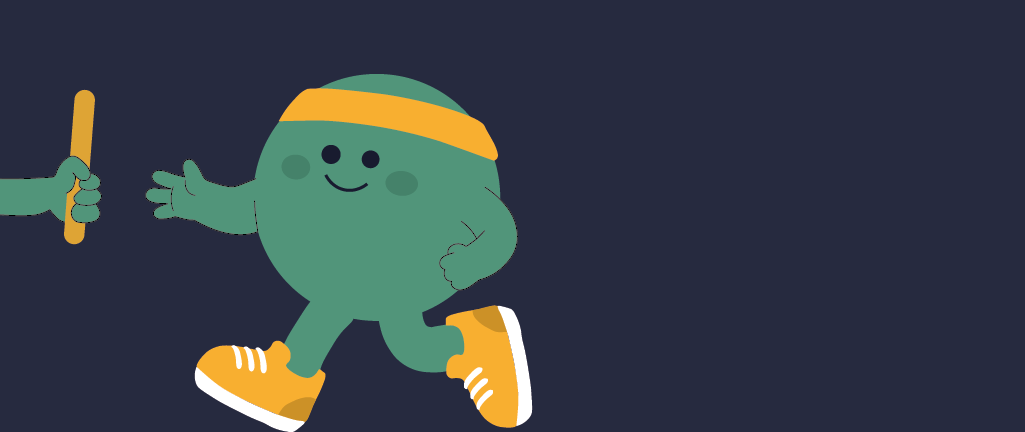
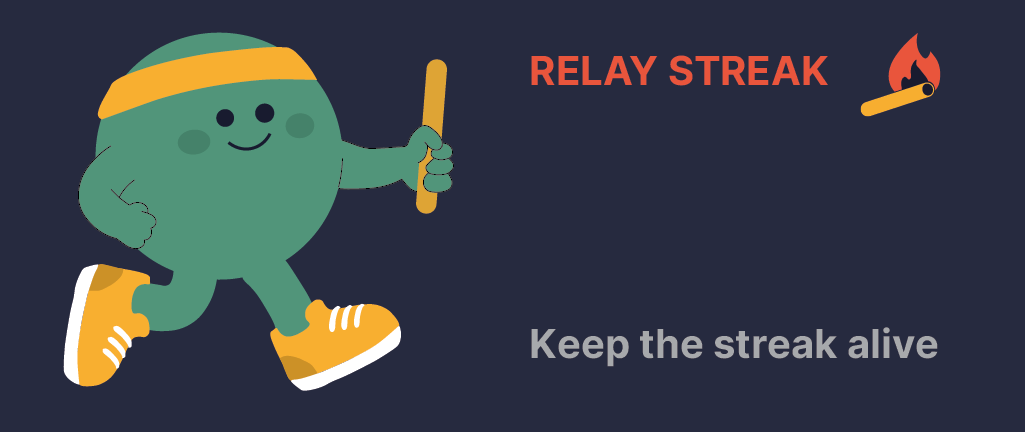
feat: "no crew screen" added + implement empty states, silent refresh, and fix navigation

Changed region(s): [[0.0, 0.0602, 0.9366, 1.0], [0.4995, 0.1204, 0.8117, 0.2106], [0.8429, 0.0903, 0.9366, 0.2708]]

diff --git a/src/screens/dashboard/CrewScreen.js b/src/screens/dashboard/CrewScreen.js
@@ -1,7 +1,7 @@
 // src/screens/main/CrewScreen.js
 import React, { useState, useEffect } from "react";
-// 🚀 FIX: ImageBackground toegevoegd aan de imports!
 import { StyleSheet, Text, View, ScrollView, TouchableOpacity, ActivityIndicator, Image, Modal, ImageBackground } from "react-native";
+import { SafeAreaView } from 'react-native-safe-area-context'; // Gelinkt aan je vorige fix!
 import { Ionicons } from "@expo/vector-icons";
 import { COLORS } from "../../theme/colors";
 import * as WebBrowser from "expo-web-browser";
@@ -31,16 +31,24 @@ export default function CrewScreen({ navigation }) {
   const [isMoreLoading, setIsMoreLoading] = useState(false); 
 
   // Streak Engine states
-  const [scheduleLoading, setScheduleLoading] = useState(true);
+  // 🚀 FIX: Standaard op false gezet zodat hij nooit uit het niets de UI blokkeert
+  const [scheduleLoading, setScheduleLoading] = useState(false);
   const [weekAssignments, setWeekAssignments] = useState([]);
   const [todayAssignment, setTodayAssignment] = useState(null);
   const [batonHolderNames, setBatonHolderNames] = useState("");
   const [timeRemaining, setTimeRemaining] = useState("");
   const [isWeekModalVisible, setWeekModalVisible] = useState(false);
+  const [isFirstLoad, setIsFirstLoad] = useState(true);
   
   // Crew Profiles voor avatars
   const [crewProfilesMap, setCrewProfilesMap] = useState({});
   const [crewMembersList, setCrewMembersList] = useState([]);
+
+    useEffect(() => {
+    if (!userLoading) {
+      setIsFirstLoad(false);
+    }
+  }, [userLoading]);
 
   // --- 2. DE COUNTDOWN TIMER ---
   useEffect(() => {
@@ -109,7 +117,10 @@ export default function CrewScreen({ navigation }) {
       return;
     }
     try {
-      setScheduleLoading(true);
+      // 🚀 FIX: Alleen laadstatus aanzetten als we nóg helemaal geen data hebben (eerste opstart)
+      if (weekAssignments.length === 0) {
+        setScheduleLoading(true);
+      }
 
       await processNachtCheck(crewData.id);
       await ensureFourteenDaySchedule(crewData.id);
@@ -292,11 +303,35 @@ export default function CrewScreen({ navigation }) {
 
   // --- 5. UI RENDER ---
 
-  if ((userLoading && !crewData) || (scheduleLoading && weekAssignments.length === 0)) {
+  // A. Toon het laadscherm UITSLUITEND bij de allereerste opstart.
+  if (isFirstLoad) {
     return (
       <View style={styles.loadingContainer}>
         <ActivityIndicator size="large" color={COLORS.primaryOrange} />
       </View>
+    );
+  }
+
+  // B. EMPTY STATE ALS DE USER GEEN CREW HEEFT
+  if (!crewData || !crewData.id) {
+    return (
+      <SafeAreaView style={styles.emptyCrewContainer}>
+        <View style={styles.emptyCrewContent}>
+          <Ionicons name="people-circle-outline" size={100} color={COLORS.textMuted} />
+          <Text style={styles.emptyCrewTitle}>You're flying solo!</Text>
+          <Text style={styles.emptyCrewText}>
+            Running is better together. Join an existing crew or start your own to unlock the relay streak and epic quests.
+          </Text>
+
+          <TouchableOpacity 
+            style={styles.primaryButton} 
+            activeOpacity={0.8} 
+            onPress={() => navigation.getParent()?.navigate("AccountSetup") || navigation.navigate("AccountSetup")}
+          >
+            <Text style={styles.primaryButtonText}>Join or Create a Crew</Text>
+          </TouchableOpacity>
+        </View>
+      </SafeAreaView>
     );
   }
 
@@ -330,16 +365,13 @@ export default function CrewScreen({ navigation }) {
         <Text style={styles.sectionTitle}>Relay Streak</Text>
       </View>
       
-      {/* Check goed of dit pad klopt in jouw mappenstructuur! */}
       <ImageBackground 
         source={require('../../assets/images/streak-banner.png')} 
         style={styles.illustratorBannerPlaceholder}
         imageStyle={{ borderRadius: 16 }}
       >
-        {/* Linkerkant (leeglaten zodat de illustratie van de mascotte hier zichtbaar is) */}
         <View style={{ flex: 1 }} /> 
 
-        {/* Rechterkant (Groot het getal en 'Days') */}
         <View style={styles.bannerTextContainer}>
           <Text style={styles.bannerStreakNumber}>{crewData?.current_streak || 0}</Text>
           <Text style={styles.bannerStreakLabel}>
@@ -560,29 +592,30 @@ const styles = StyleSheet.create({
     height: 140,
     overflow: 'hidden',
     flexDirection: 'row', 
-    borderColor: COLORS.secondaryYellow,
+    borderColor: "#3a3f58",
     borderWidth: 3,
   },
   bannerTextContainer: {
     flex: 1,
     alignItems: 'center',
-    
+    flexDirection: 'row',
+    marginLeft: 10,
   },
   bannerStreakNumber: { 
-    color: COLORS.primaryOrange, 
+    color: COLORS.textLight, 
     fontFamily: "Baloo-Bold", 
-    fontSize: 84,
+    fontSize: 65,
     lineHeight: 60,
     paddingTop: 40,
   },
   bannerStreakLabel: {
     color: "#FFF", 
     fontFamily: "Baloo-Bold", 
-    fontSize: 30, 
+    fontSize: 40, 
     fontWeight: "bold", 
     textTransform: 'uppercase', 
     letterSpacing: 2,
-    marginTop: -30,
+    marginTop: 17,
     marginLeft: 10,
   },
 
@@ -657,4 +690,12 @@ const styles = StyleSheet.create({
   weekIconCol: { width: 40, alignItems: "center" },
   weekNameCol: { flex: 1, paddingLeft: 10 },
   weekRunnerText: { color: COLORS.textLight, fontFamily: "Inter", fontSize: 16, fontWeight: "600" },
+  
+  // --- EMPTY STATE STYLES ---
+  emptyCrewContainer: { flex: 1, backgroundColor: COLORS.background },
+  emptyCrewContent: { flex: 1, justifyContent: 'center', alignItems: 'center', padding: 30 },
+  emptyCrewTitle: { color: COLORS.textLight, fontFamily: 'Baloo-Bold', fontSize: 32, marginTop: 20, marginBottom: 10, textAlign: 'center' },
+  emptyCrewText: { color: COLORS.textMuted, fontFamily: 'Inter', fontSize: 16, textAlign: 'center', lineHeight: 24, marginBottom: 40 },
+  primaryButton: { backgroundColor: COLORS.primaryOrange, paddingVertical: 16, paddingHorizontal: 30, borderRadius: 16, width: '100%', alignItems: 'center', shadowColor: COLORS.primaryOrange, shadowOffset: { width: 0, height: 4 }, shadowOpacity: 0.3, shadowRadius: 6, elevation: 5 },
+  primaryButtonText: { color: "#FFF", fontFamily: "Inter", fontWeight: "bold", fontSize: 18 },
 });

diff --git a/src/screens/dashboard/QuestsScreen.js b/src/screens/dashboard/QuestsScreen.js
@@ -7,8 +7,6 @@ import { COLORS } from '../../theme/colors';
 import { useUser } from '../../context/UserContext';
 import { supabase } from '../../lib/supabase';
 
-// 🚀 ROADMAP MET COVER AFBEELDINGEN (Unsplash placeholders)
-// 🚀 DE NIEUWE GEÜPDATETE ROADMAP MET LOKALE AFBEELDINGEN (Gemeten in Minuten)
 const MASTER_CHALLENGES = [
   { 
     id: "c1", 
@@ -146,7 +144,37 @@ export default function QuestsScreen({ navigation }) {
   const upcomingQuests = MASTER_CHALLENGES.filter(q => !activeAndCompletedTargets.includes(q.target_amount));
   const previewUpcoming = upcomingQuests.slice(0, 2);
 
-  if (contextLoading || loadingQuests) {
+  // A. Eerst checken of de usercontext nog laadt
+  if (contextLoading) {
+    return (
+      <View style={styles.loadingContainer}>
+        <ActivityIndicator size="large" color={COLORS.primaryOrange} />
+      </View>
+    );
+  }
+
+  // B. 🚀 NIEUW: EMPTY STATE ALS DE USER GEEN CREW HEEFT
+  if (!crewData || !crewData.id) {
+    return (
+      <SafeAreaView style={[styles.container, { justifyContent: 'center', alignItems: 'center', padding: 30 }]}>
+        <Ionicons name="map-outline" size={100} color={COLORS.textMuted} />
+        <Text style={{ color: COLORS.textLight, fontFamily: 'Baloo-Bold', fontSize: 32, marginTop: 20, marginBottom: 10, textAlign: 'center' }}>No Quests Yet</Text>
+        <Text style={{ color: COLORS.textMuted, fontFamily: 'Inter', fontSize: 16, textAlign: 'center', lineHeight: 24, marginBottom: 40 }}>
+          You need to be part of a crew to unlock epic running challenges like The Marathon or Route 66.
+        </Text>
+        <TouchableOpacity 
+          style={styles.viewAllButton} 
+          activeOpacity={0.8} 
+          onPress={() => navigation.getParent()?.navigate("AccountSetup") || navigation.navigate("AccountSetup")}
+        >
+          <Text style={[styles.viewAllText, { fontSize: 18 }]}>Join or Create a Crew</Text>
+        </TouchableOpacity>
+      </SafeAreaView>
+    );
+  }
+
+  // C. Als hij wel in een crew zit, maar de quests nog laden
+  if (loadingQuests) {
     return (
       <View style={styles.loadingContainer}>
         <ActivityIndicator size="large" color={COLORS.primaryOrange} />

diff --git a/src/screens/dashboard/CrewSettingsScreen.js b/src/screens/dashboard/CrewSettingsScreen.js
@@ -143,28 +143,28 @@ const handleLeaveCrew = async () => {
       const { data: { user } } = await supabase.auth.getUser();
       if (!user) return;
 
-      // Zoek jouw eigen naam op uit de lokaal geladen members list (die heb je al!)
       const myMemberRecord = members.find(m => m.id === user.id);
       const myName = myMemberRecord?.name || "A member";
 
       // 1. Verwijder jezelf uit de crew_members tabel
       await supabase.from("crew_members").delete().eq("user_id", user.id);
 
-      // 2. Log de actie in de activity feed, nu met de juiste, gevonden naam
+      // 2. Log de actie in de activity feed
       await supabase.from("crew_activity_log").insert({
         crew_id: crewData.id,
         event_type: "member_left",
         metadata: { ex_member_name: myName }
       });
 
-      // 3. 🚀 DE LOGICA: Herbereken de toekomst voor de overgebleven leden!
+      // 3. Herbereken de toekomst voor de overgebleven leden!
       await recalculateFutureSchedule(crewData.id);
 
-      // 4. Forceer de Context om de Crew leeg te maken in het geheugen!
+      // 4. Sluit dit settings scherm ONMIDDELLIJK af
+      navigation.goBack(); 
+
+      // 5. Maak de lokaal opgeslagen crew leeg (dit triggert de empty states op de onderliggende schermen!)
       refreshCrewData(); 
 
-      // 5. Navigeer terug naar het start/onboarding scherm
-      navigation.navigate("AccountSetup");
     } catch (error) {
       console.error("Fout bij verlaten:", error);
     }